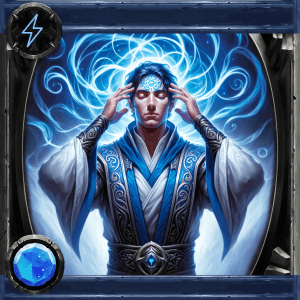
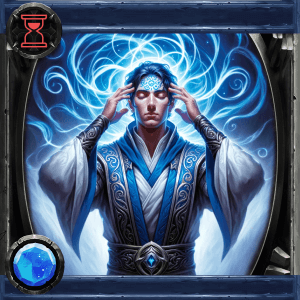
fix: change some cards cost, bugs with cards discription

Changed region(s): [[0.06, 0.03, 0.15, 0.18]]

diff --git a/client/src/hooks/useBattleActions.js b/client/src/hooks/useBattleActions.js
@@ -114,26 +114,18 @@ const useBattleActions = () => {
   const deleteCardFromSource = (card) => {
     // Extract properties from the card object
     const {
-      player, status, cellId, id, type,
+      player, status, id, type,
     } = card;
 
     // Delete the card from the appropriate source based on its status
-    if (status === 'hand') {
-      dispatch(battleActions.deleteHandCard({ cardId: id, player }));
-    } else {
-      dispatch(battleActions.deleteFieldCard({ cardId: id }));
-    }
+    if (status === 'hand') dispatch(battleActions.deleteHandCard({ cardId: id, player }));
+    if (status === 'field') dispatch(battleActions.deleteFieldCard({ cardId: id }));
+    if (status === 'deck') dispatch(battleActions.deleteDeckCard({ cardId: id, player }));
 
     // Perform additional actions based on conditions
-    if (cellId === 'postponed1' || cellId === 'postponed2') {
-      // Turn the postponed card to cover status
-      dispatch(battleActions.turnPostponed({ player, status: 'cover' }));
-    }
 
     // If the card type is 'warrior', delete any attachment associated with it
-    if (type === 'warrior') {
-      dispatch(battleActions.deleteAttachment({ spellId: id }));
-    }
+    if (type === 'warrior') dispatch(battleActions.deleteAttachment({ spellId: id }));
   };
 
   const changeCardHP = (power, health, card) => {
@@ -250,14 +242,10 @@ const useBattleActions = () => {
 
     dispatch(battleActions.addAnimation({ cellId: applyingCell.id, type: 'attacked' }));
     if (isKilled(calculatedPower, receivedHealth)) {
-      const cardCell = currentFieldCells.find((cell) => cell.id === aimCard.cellId);
-      const lastSpells = findTriggerSpells(aimCard, cardCell, 'lastcall', 'warrior', gameTurn);
-      deleteCardFromSource(aimCard);
-      dispatch(battleActions.addToGraveyard({ card: aimCard }));
       moveAttachedSpells(aimCard.cellId, null, 'kill');
-      lastSpells.forEach((feat) => castFunc({
-        feature: feat, aimCell: cardCell, applyingCard: null, player: aimCard.player, player2Type: '', performAIAction: null,
-      }));
+      sendCardFromField({
+        card: aimCard, castFunc, destination: 'grave', cardCost: null, cellsOnField: currentFieldCells, gameTurn,
+      });
     }
     if (isKilled(calculatedPower, receivedHealth) && isHeroKilled(aimCard)) {
       showVictoryWindow(getEnemyPlayer(aimCard.player));
@@ -405,9 +393,9 @@ const useBattleActions = () => {
           card: spellCard, playerPoints, fieldCards: currentFieldCards, fieldCells: currentFieldCells, room: '',
         });
       } else {
-        handleAnimation(spellCard, 'add');
         setInvoking(true);
         setTimeout(() => setInvoking(false), 1000);
+        handleAnimation(spellCard, 'add');
       }
     },
     drawCard: (data) => {
@@ -629,8 +617,6 @@ const useBattleActions = () => {
     if (cellsToAttach && attach.includes('grave')) {
       const playerToApply = feature.type === 'good' ? castingPlayer : getEnemyPlayer(castingPlayer);
       dispatch(modalsActions.openModal({ type: 'openCheckCard', player: playerToApply, id: 'grave' }));
-      // const currenttOwnerPoints = playerPoints.find((item) => item.player === castingPlayer).points;
-      // dispatch(battleActions.setPlayerPoints({ points: currenttOwnerPoints - feature.cost ?? 0, player: castingPlayer }));
       if (player2Type === 'computer' && castingPlayer === 'player2') {
         const cardsCanBeRessurected = currentFieldCards
           .filter((c) => c.status === 'graveyard' && c.player === playerToApply && feature.aim.includes(c.subtype));

diff --git a/client/src/pages/BattleField/HeroPad/HeroPad.jsx b/client/src/pages/BattleField/HeroPad/HeroPad.jsx
@@ -6,6 +6,7 @@ import cn from 'classnames';
 import { CSSTransition, TransitionGroup } from 'react-transition-group';
 import DeckCover from '@assets/battlefield/DeckCover.png';
 import CardCounter from '@assets/battlefield/CardCounter.png';
+import getEnemyPlayer from '../../../utils/supportFunc/getEnemyPlayer.js';
 import Timer from '../../../components/Timer/Timer.jsx';
 import isWarriorReady from '../../../utils/supportFunc/isWarriorReady.js';
 import CellCard from '../CellCard/CellCard.jsx';
@@ -21,7 +22,7 @@ const HeroPad = ({ type, player }) => {
   const { handleDeckClick, handlePointsClick, handleGraveyardClick } = useClickActions();
 
   const {
-    fieldCells, fieldCards, playersHands, thisPlayer, playerPoints, gameTurn,
+    fieldCells, fieldCards, playersHands, thisPlayer, playerPoints, gameTurn, playersDecks,
   } = useSelector((state) => state.battleReducer);
   const { gameMode } = useSelector((state) => state.gameReducer);
   const { timer } = useSelector((state) => state.uiReducer);
@@ -29,8 +30,8 @@ const HeroPad = ({ type, player }) => {
   const curPoints = playerPoints.find((data) => data.player === player).points;
   const { maxPoints } = playerPoints.find((data) => data.player === player);
 
-  const cardsCount = useMemo(() => (thisPlayer === 'player1' ? playersHands.player2.length : playersHands.player1.length), [thisPlayer,
-    playersHands]);
+  const cardsCount = useMemo(() => playersHands[getEnemyPlayer(thisPlayer)].length, [thisPlayer, playersHands]);
+  const cardsInDecks = useMemo(() => playersDecks[player].length, [playersDecks, player]);
   const heroCellId = useMemo(() => (player === 'player1' ? 'hero1' : 'hero2'), [player]);
   const heroCell = useMemo(() => fieldCells.find((cell) => cell.player === player && cell.type === 'hero'), [fieldCells, player]);
   const heroData = useMemo(() => fieldCards.filter((card) => card.cellId === heroCellId), [heroCellId, fieldCards]);
@@ -87,11 +88,21 @@ const HeroPad = ({ type, player }) => {
           <img className={`${styles.image} ${styles.noBorder}`} src={CardCounter} alt="cards counter" />
         </div>
         )}
-        <div className={`${cellsClasses} ${styles.noBorder}`}>
-          <button className={styles.defaultBtn} ref={deck} data-player={player} type="button" onClick={() => handleDeckClick({ deck, player })}>
-            <img className={`${styles.image} ${styles.noBorder}`} src={DeckCover} alt="deck cover" />
-          </button>
-        </div>
+        {cardsInDecks > 0
+          ? (
+            <div className={`${cellsClasses} ${styles.noBorder}`}>
+              <button className={styles.defaultBtn} ref={deck} data-player={player} type="button" onClick={() => handleDeckClick({ deck, player })}>
+                <img className={`${styles.image} ${styles.noBorder}`} src={DeckCover} alt="deck cover" />
+              </button>
+            </div>
+          )
+          : (
+            <div className={`${cellsClasses}`}>
+              <button className={styles.defaultBtn} onClick={() => handleDeckClick({ deck, player })} type="button">
+                <h3 className={styles.defaultTitle}>{t('Deck')}</h3>
+              </button>
+            </div>
+          )}
         <div className={`${cellsClasses} ${heroAnima} ${styles.noBorder}`}>
           {heroCellContent.length > 0 && (
             heroCellContent.map((item) => (

diff --git a/client/src/gameCardsData/spellSchoolsData/waterSpells.js b/client/src/gameCardsData/spellSchoolsData/waterSpells.js
@@ -1,3 +1,4 @@
+/* eslint-disable max-len */
 import _ from 'lodash';
 import Blizzard from '../../assets/waterSpells/Blizzard.png';
 import Frostbite from '../../assets/waterSpells/Frostbite.png';
@@ -75,7 +76,7 @@ export default {
     showCharges: false,
     place: 'bigSpell',
     features: [{
-      spell: true, attach: ['field', 'warrior'], aim: ['warrior', 'fighter', 'shooter', 'flyer'], name: 'stun', condition: 'onplay', type: 'bad', charges: 1, aimStatus: 'field', cost: 2, subtype: 'reaction',
+      spell: true, attach: ['field', 'warrior'], aim: ['warrior', 'fighter', 'shooter', 'flyer'], name: 'stun', condition: 'onplay', type: 'bad', charges: 1, aimStatus: 'field', cost: 1, subtype: 'reaction',
     },
     {
       spell: true, attach: ['field', 'warrior'], type: 'bad', aim: ['warrior', 'fighter', 'shooter', 'flyer'], name: 'attack', value: 3, charges: 1, condition: 'onplay', aimStatus: 'field', cost: 0, subtype: 'reaction',
@@ -84,7 +85,7 @@ export default {
       spell: true, attach: ['field', 'warrior'], type: 'bad', aim: ['warrior', 'fighter', 'shooter', 'flyer'], name: 'attack', value: 3, charges: 1, condition: 'onmove', aimStatus: 'field', cost: 0, subtype: 'reaction',
     },
     {
-      spell: true, attach: ['field', 'warrior'], aim: ['warrior', 'fighter', 'shooter', 'flyer'], name: 'stun', condition: 'onmove', type: 'bad', charges: 1, aimStatus: 'field', cost: 2, subtype: 'reaction',
+      spell: true, attach: ['field', 'warrior'], aim: ['warrior', 'fighter', 'shooter', 'flyer'], name: 'stun', condition: 'onmove', type: 'bad', charges: 1, aimStatus: 'field', cost: 1, subtype: 'reaction',
     }],
     img: FrostTrap,
     status: 'hand',
@@ -234,15 +235,23 @@ export default {
     id: _.uniqueId(),
     type: 'spell',
     subtype: 'instant',
-    cost: 7,
-    currentC: 7,
+    cost: 5,
+    currentC: 5,
     featInfo: [],
     description: 'Tsunami',
     school: 'Water',
     place: '',
-    features: [{
-      spell: true, attach: false, type: 'all', aim: ['field', 'warrior', 'fighter', 'shooter'], name: 'attack', value: 7, depend: 'postponed', dependValue: 8, aimStatus: 'field',
-    }],
+    features: [
+      {
+        spell: true, attach: false, type: 'all', aim: ['row', 'warrior', 'fighter', 'shooter'], name: 'attack', value: 7, aimStatus: 'field',
+      },
+      {
+        spelll: true, attach: false, type: 'all', aim: ['randomNextRow', 'warrior', 'fighter', 'shooter'], name: 'attack', value: 7, aimStatus: 'field',
+      },
+    //   {
+    //   spell: true, attach: false, type: 'all', aim: ['field', 'warrior', 'fighter', 'shooter'], name: 'attack', value: 7, depend: 'postponed', dependValue: 8, aimStatus: 'field',
+    // }
+    ],
     img: Tsunami,
     status: 'hand',
   },

diff --git a/client/src/modals/CheckCardsWindow/CheckCardsWindow.jsx b/client/src/modals/CheckCardsWindow/CheckCardsWindow.jsx
@@ -5,19 +5,21 @@ import { actions as modalActions } from '../../slices/modalsSlice.js';
 import Card from '../../components/CardComponents/Card/Card.jsx';
 import PrimaryButton from '../../components/Buttons/PrimaryButton/PrimaryButton.jsx';
 import styles from './CheckCardsWindow.module.css';
+import { battleSelectors } from '../../slices/selectors/selectors.js';
 
-const getCardsToShow = {
-  grave: ({ fieldCells, player, fieldCards }) => {
-    const graveyardCellId = fieldCells.find((cell) => cell.player === player && cell.type === 'graveyard').id;
-    return fieldCards.filter((card) => card.cellId === graveyardCellId);
-  },
-  deck: ({ playersDecks, player }) => playersDecks[player],
-  attached: ({ data, player }) => {
-    const goodCards = data.filter((card) => card.player === player);
-    const badCards = data.filter((card) => card.player !== player);
-    return [...badCards, ...goodCards];
-  },
-};
+// const getCardsToShow = {
+//   grave: ({ fieldCells, player, fieldCards }) => {
+//     const graveyardCellId = fieldCells
+//          .find((cell) => cell.player === player && cell.type === 'graveyard').id;
+//     return fieldCards.filter((card) => card.cellId === graveyardCellId);
+//   },
+//   deck: ({ playersDecks, player }) => playersDecks[player],
+//   attached: ({ data, player }) => {
+//     const goodCards = data.filter((card) => card.player === player);
+//     const badCards = data.filter((card) => card.player !== player);
+//     return [...badCards, ...goodCards];
+//   },
+// };
 
 const getWindowName = {
   grave: 'PlayedCards',
@@ -30,18 +32,19 @@ const CheckCardsWindow = () => {
   const dispatch = useDispatch();
 
   const { player, id, data } = useSelector((state) => state.modalsReducer);
-  const { fieldCells, fieldCards, playersDecks } = useSelector((state) => state.battleReducer);
-  const cardsToShow = getCardsToShow[id]({
-    fieldCells, fieldCards, player, playersDecks, data,
-  });
+  const cardsToShow = useSelector((state) => battleSelectors
+    .getCheckCardsData(state, ({ player, id, data })));
+  // const { fieldCells, fieldCards, playersDecks } = useSelector((state) => state.battleReducer);
+  // const cardsToShow = getCardsToShow[id]({
+  //   fieldCells, fieldCards, player, playersDecks, data,
+  // });
+  const appear = { transform: 'translateY(0)' };
 
   const [isShowAnimation, setShowAnimation] = useState(false);
 
   useEffect(() => {
     setTimeout(() => setShowAnimation(true), 0);
   }, []);
-
-  const appear = { transform: 'translateY(0)' };
 
   const handleClose = () => {
     dispatch(modalActions.closeModal());

diff --git a/client/src/locales/ru/Spells/fireSpellsInfoRU.js b/client/src/locales/ru/Spells/fireSpellsInfoRU.js
@@ -1,6 +1,6 @@
 export default {
   FireArrow: 'Атковать воина силой 2',
-  MeteorShower: 'Атакует силой 3 ВСЕХ воинов в шеренге и ВСЕХ воинов в соседней шеренге (приоритет - верхняя шеренга)',
+  MeteorShower: 'Атакует силой 3 ВСЕХ воинов в шеренге и ВРАЖЕСКИХ воинов в соседней шеренге (приоритет - верхняя шеренга)',
   FireBall: 'Атаковать воина силой 3 или 4, если вы только что сыграли карту заклинания из руки',
   PowerOfFire: 'Кладется рядом с полем боя. Все ваши воины получают +2 к базовой атаке до конца вашего хода',
   Rage: 'Накладывается на воина, он получает + 1 к атаке',
@@ -8,6 +8,6 @@ export default {
   FireSplash: 'Атаковать воина и прилегающих к нему всех других воинов силой 1',
   FireShield: 'Вражеские воины, при атаке воина с огненным щитом в свой ход, получают физический урон равный силе этой атаки',
   FireBlast: 'Атаковать воина и прилегающих к нему всех других воинов силой 4',
-  Ignition: 'Накладывается на воина и атакует его силой 2 при на ложении и как ПОСЛЕДНИЙ ВЫЗОВ. Если убивает воина при наложении, то остается на этой клетке и блокирует ее',
-  Blindness: 'Накладывается на воина и он не может атаковать, передвигаться в свой ход пока не получит урон от воинов',
+  Ignition: 'Накладывается на воина и атакует его силой 2 при на ложении и силой 3 при ПОСЛЕДНЕМ ВЫЗОВЕ. Если убивает воина при наложении, то клетка под этим воином блокируется',
+  Blindness: 'Накладывается на воина. Этот воин не может атаковать в свой ход и имеет атаку 0. После получения урона от атаки воина, слепота отправляется в сток',
 };

diff --git a/client/src/locales/ru/Spells/waterSpellsInfoRU.js b/client/src/locales/ru/Spells/waterSpellsInfoRU.js
@@ -1,5 +1,5 @@
 export default {
-  Blizzard: 'Накладывается на центральную клетку. Отнимает 3 здоровья у вражеских и соююзных воинов в этой шеренге при наложении и как ПОСЛЕДНИЙ ВЫЗОВ',
+  Blizzard: 'Накладывается на центральную клетку. Отнимает 3 здоровья у вражеских и соююзных воинов в этой шеренге при наложении и при ПОСЛЕДНЕМ ВЫЗОВЕ',
   Frostbite: 'Накладывается на вражеского воина и отнимает у него -2 базовой атаки',
   FrostTrap: 'РЕАКЦИЯ: Вражеский воин, который только сделал шаг или вошел в игру, получает повреждение силой 3 и оглушение',
   IceBlock: 'Кладется на союзного героя. Поглощает весь урон по герою в течение хода врага',
@@ -7,7 +7,7 @@ export default {
   IceWall: 'Кладется на центральную клетку. ВСЕ Стрелки и Бойцы в этой шеренге не могут атаковать в свой ход',
   IceWeapon: 'Накладывается на союзного воина. Он получает +2 к базовой атаке',
   Icing: 'Кладется на центральную клетку. ВСЕ Воины в этой шеренге не могут передвигаться и атаковать в свой ход',
-  Tsunami: 'Отнять 7 здоровья у ВСЕХ не Летающих воинов на поле боя',
+  Tsunami: 'Отнять 7 здоровья у ВСЕХ не Летающих воинов в целевой шеренге и в соседней шеренге (приоритет - верхняя шеренга)',
   Waterfall: 'Кладется рядом с полем боя. Вражеские воины с текущей базовой атакой 2 или меньше не могут атаковать в свой ход',
   IceArrow: 'Отнять 2 здоровья у вражеского воина, этот воин получает ОГЛУШЕНИЕ',
   IceArmor: 'Накладывается на союзного воина или героя. Весь урон по этому воину снижается на 1 (в том числе от ответного удара)',

diff --git a/client/src/gameCardsData/factionsData/academiaFaction.js b/client/src/gameCardsData/factionsData/academiaFaction.js
@@ -77,13 +77,13 @@ const academiaDeck = {
     turn: 0,
   },
   LivingWall: {
-    name: 'Living wall', id: _.uniqueId(), type: 'warrior', subtype: 'fighter', power: 2, currentP: 2, health: 5, currentHP: 5, cost: 2, currentC: 2, featInfo: ['FIGHTER', 'IMMOBILIZED'], description: 'LivingWall', faction: 'Academia', features: [{ name: 'immobile' }, { name: 'unarmed' }], attachments: [], img: LivingWall, status: 'hand', turn: 1,
+    name: 'Living wall', id: _.uniqueId(), type: 'warrior', subtype: 'fighter', power: 2, currentP: 2, health: 5, currentHP: 5, cost: 2, currentC: 2, featInfo: ['FIGHTER', 'IMMOBILIZED'], description: 'LivingWall', faction: 'Academia', features: [{ name: 'immobile' }, { name: 'unarmed' }], attachments: [], img: LivingWall, status: 'deck', turn: 1,
   },
   MageApprentice: {
-    name: 'Mage apprentice', id: _.uniqueId(), type: 'warrior', subtype: 'shooter', power: 2, currentP: 2, health: 4, currentHP: 4, cost: 3, currentC: 3, featInfo: ['SHOOTER', 'MAGICSHIELD'], description: 'MageApprentice', faction: 'Academia', features: [{ name: 'protection', value: { type: 'percent', val: 0.5 }, aim: ['spell'] }], attachments: [], img: MageApprentice, status: 'hand', turn: 1,
+    name: 'Mage apprentice', id: _.uniqueId(), type: 'warrior', subtype: 'shooter', power: 2, currentP: 2, health: 4, currentHP: 4, cost: 3, currentC: 3, featInfo: ['SHOOTER', 'MAGICSHIELD'], description: 'MageApprentice', faction: 'Academia', features: [{ name: 'protection', value: { type: 'percent', val: 0.5 }, aim: ['spell'] }], attachments: [], img: MageApprentice, status: 'deck', turn: 1,
   },
   GremlinShooter: {
-    name: 'Gremlin shooter', id: _.uniqueId(), type: 'warrior', subtype: 'shooter', power: 2, currentP: 2, health: 3, currentHP: 3, cost: 2, currentC: 2, featInfo: ['SHOOTER'], description: 'GremlinShooter', faction: 'Academia', features: [{ name: 'retaliation', value: 1, aim: ['shooter'] }], attachments: [], img: GremlinShooter, status: 'hand', turn: 1,
+    name: 'Gremlin shooter', id: _.uniqueId(), type: 'warrior', subtype: 'shooter', power: 2, currentP: 2, health: 3, currentHP: 3, cost: 2, currentC: 2, featInfo: ['SHOOTER'], description: 'GremlinShooter', faction: 'Academia', features: [{ name: 'retaliation', value: 1, aim: ['shooter'] }], attachments: [], img: GremlinShooter, status: 'deck', turn: 1,
   },
   IceElement: {
     name: 'Ice element',

diff --git a/client/src/locales/ru/menuTipsRU.js b/client/src/locales/ru/menuTipsRU.js
@@ -26,7 +26,7 @@ export const menuTipsText = {
   LASTCAST: 'Эффект применяется перед тем как карта с этим эффектом отправится в сток',
   STUN: 'Поворачивает воина в состояние оглушения',
   INVISIBILITY: 'Вражеские воины не могут атаковать этого воина в свой ход базовой атакой, но могут атаковать героя или других воинов сквозь этого воина',
-  REACTION: 'Эта способность применяется в ответ на какое-то событие в игре, для этого карта со способностью должна быть отложенной',
+  REACTION: 'Эта способность применяется в ответ на какое-то действие противника. Применение карты со способностью не отнимает очки действия - они отнимаются только если способность сработала',
   EVASION: 'Воин поглощает первый урон от атаки вражеского воина по нему во время хода оппонента, но получает оглушение и передвигается на соседнюю клетку на линии не нанося ответный удар (не сработает, если оглушен или не может передвинуться)',
   MASSIVEBLOW: 'При атаке в свой ход по воину, дополнительно отнимает Х здоровья у воинов в соседних клетках на линии рядом с целью',
   SHOCKWAVE: 'Вместо базовой атаки, может атаковать пустую клетку на поле врага до которой достает, при этом отнимает Х здоровья у прилегающих к этой клетке вражеских воинов (не атакует себя, безответная атака)',

diff --git a/client/src/locales/ru/Spells/skillsInfoRU.js b/client/src/locales/ru/Spells/skillsInfoRU.js
@@ -2,11 +2,11 @@ export default {
   BattleCry: 'Накладывается на вашего героя - повернутый герой становится снова активным',
   MeleeCombat: 'АРТЕФАКТ. Вместо хода героя: прибавить воину +2 к атаке на единоразовую атаку в его ход',
   RangeCombat: 'Накладывается на Стрелка, этот воин получают +1 к атаке',
-  Protection: 'Накладывается на воина, он получает +2 защиту от атак других воинов в том числе от ответных ударов',
+  Protection: 'Накладывается на воина, он получает +1 защиту от атак воинов и заклинаний, в том числе при ответном ударе',
   Resistance: 'Накладывается на воина, он получает 50% защиту от ударных заклинаний',
   Durability: 'Накладывается на воина, он получает +3 к здоровью',
   FirstAid: 'Излечивает у воина 4 здоровья',
-  Leadership: 'Накладывается на воина, он получает СТРЕМИТЕЛЬНОСТЬ',
+  Leadership: 'Накладывается на воина, он получает СТРЕМИТЕЛЬНОСТЬ в этом ходу',
   BattleTactics: 'Кладется рядом с вашей линией. Все воины в этой линии получают СТРЕМИТЕЛЬНОСТЬ, если перемещаются по этой линии',
   RighteousHammer: 'АРТЕФАКТ. Вместо хода героя: атаковать вражеского воина силой 2 + Х, где Х равен количеству воинов на поле у противника, минус количество воинов у вас на поле',
   RighteousHammerCast: 'Выберите воина для атаки',

diff --git a/client/src/gameCardsData/spellSchoolsData/fireSpells.js b/client/src/gameCardsData/spellSchoolsData/fireSpells.js
@@ -49,10 +49,10 @@ export default {
     id: _.uniqueId(),
     place: '',
     features: [{
-      spell: true, attach: false, type: 'all', aim: ['row', 'warrior', 'fighter', 'shooter', 'flyer'], name: 'attack', value: 3, aimStatus: 'field',
+      spell: true, attach: false, type: 'all', aim: ['row', 'warrior', 'fighter', 'shooter', 'flyer'], name: 'attack', value: 4, aimStatus: 'field',
     },
     {
-      spelll: true, attach: false, type: 'all', aim: ['randomNextRow', 'warrior', 'fighter', 'shooter', 'flyer'], name: 'attack', value: 3, aimStatus: 'field',
+      spelll: true, attach: false, type: 'bad', aim: ['randomNextRow', 'warrior', 'fighter', 'shooter', 'flyer'], name: 'attack', value: 4, aimStatus: 'field',
     },
     ],
     img: MeteorShower,
@@ -90,8 +90,8 @@ export default {
     name: 'Power of Fire',
     type: 'spell',
     subtype: 'turn',
-    cost: 7,
-    currentC: 7,
+    cost: 6,
+    currentC: 6,
     featInfo: [],
     description: 'PowerOfFire',
     school: 'Fire',
@@ -284,9 +284,18 @@ export default {
       attach: ['warrior', 'flyer', 'shooter', 'fighter'],
       aim: ['warrior', 'flyer', 'shooter', 'fighter'],
       type: 'bad',
-      name: 'immobile',
+      name: 'power',
+      value: -50,
       aimStatus: 'field',
     },
+    // {
+    //   spell: true,
+    //   attach: ['warrior', 'flyer', 'shooter', 'fighter'],
+    //   aim: ['warrior', 'flyer', 'shooter', 'fighter'],
+    //   type: 'bad',
+    //   name: 'immobile',
+    //   aimStatus: 'field',
+    // },
     {
       spell: true,
       attach: ['warrior', 'flyer', 'shooter', 'fighter'],
@@ -295,6 +304,7 @@ export default {
       name: 'protection',
       value: { type: 'number', val: 0 },
       charges: 1,
+      hide: 'true',
       aimStatus: 'field',
     },
     ],

diff --git a/client/src/locales/ru/Spells/airSpellsInfoRU.js b/client/src/locales/ru/Spells/airSpellsInfoRU.js
@@ -1,11 +1,11 @@
 export default {
   ThunderBlast: 'Атаковать воина силой 4 и оглушить союзных и вражеских воинов прилегающих к цели',
-  Swiftness: 'Накладывается на союзного воина. Он может атаковать и ходить в один ход',
+  Swiftness: 'Накладывается на союзного воина. Он получает СТРЕМИТЕЛЬНОСТЬ',
   LightningStrike: 'Атаковать воина силой 4 или 5, если есть ваши наложенные заклинания воздуха на поле',
   Dodge: 'РЕАКЦИЯ. Герой игнорирует первый урон по нему за раунд',
   ShockWaveCast: 'Выберите пустую клетку для применения',
   LightningPower: 'Накладывается на вашего воина. Он получает СТРЕМИТЕЛЬНОСТЬ и ПРОНИКАЮЩАЮ АТАКУ 2',
   ThunderWeapon: 'Накладывается на воина, он получает УДАРНУЮ ВОЛНУ 2',
   ArrowsRain: 'Кладется рядом с полем. Ваши Стрелки могут атаковать любого воина на поле',
-  AirFlows: 'Можно переместить целевого вашего воина и другого союзного воина, стоящего в этой шеренге на свободную клетку',
+  AirFlows: 'Кладется на центральную клетку. Союзные воины в этой шеренге получаю СТРЕМИТЕЛЬНОСТЬ в этом ходу',
 };

diff --git a/client/src/locales/ru/castleCardsInfoRU.js b/client/src/locales/ru/castleCardsInfoRU.js
@@ -10,7 +10,7 @@ export default {
   KnightGuardian: 'БОЕЦ. Вражеские воины не могут атаковать воинов в соседних клетках от Рыцаря-защитника, но могут атаковать Рыцаря-защитника вместо этого',
   ImperialGriffon: 'ЛЕТАЮЩИЙ. Имеет +1 к ответному удару против Бойцов',
   TemplarChampion: 'БОЕЦ. Когда входит в игру, вылечить 3 здоровья у союзного воина на поле. Имеет ПРОНИКАЮЩУЮ АТАКУ 2',
-  MasterOfLight: 'БОЕЦ. Вместо атаки: атаковать заклинанием силой 2 всех Вражеских воинов в шеренге в которой стоит',
+  MasterOfLight: 'БОЕЦ. Вместо атаки: атаковать заклинанием силой 3 всех Вражеских воинов в шеренге в которой стоит',
   YouthFountain: 'Положить рядом с полем. Когда другой игрок выкладывает или перемещает своего воина на поле - вылечить 2 здоровья у вашего героя',
   RetaliationHammer: 'Отнять 2 здоровья у вражеского воина и переместить его на прилегающую клетку',
   TemplarChampCast: 'Выбрать воина для лечения',
